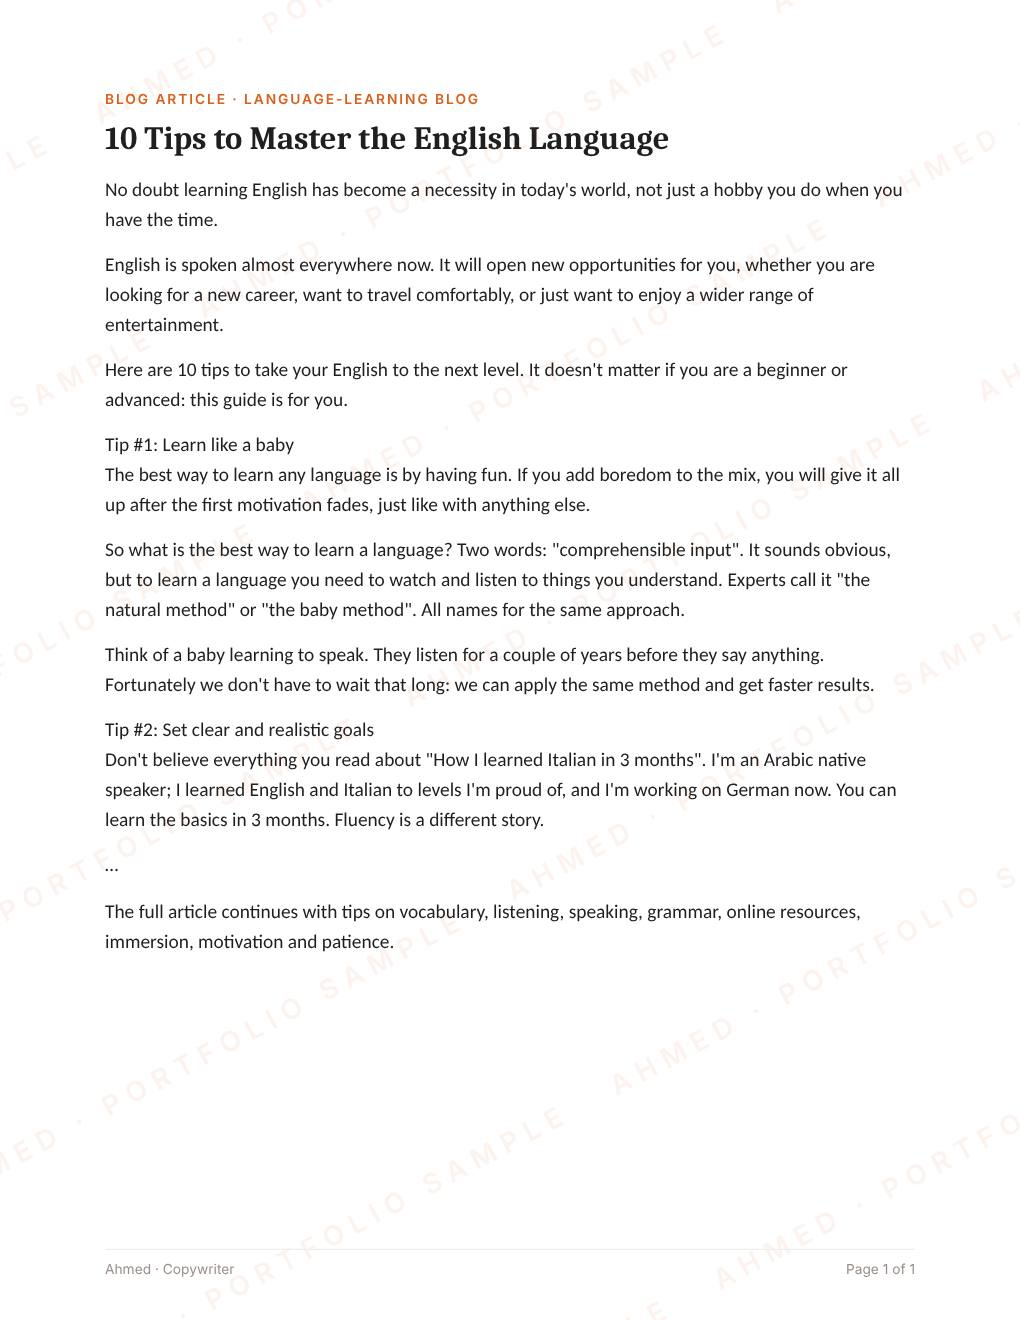
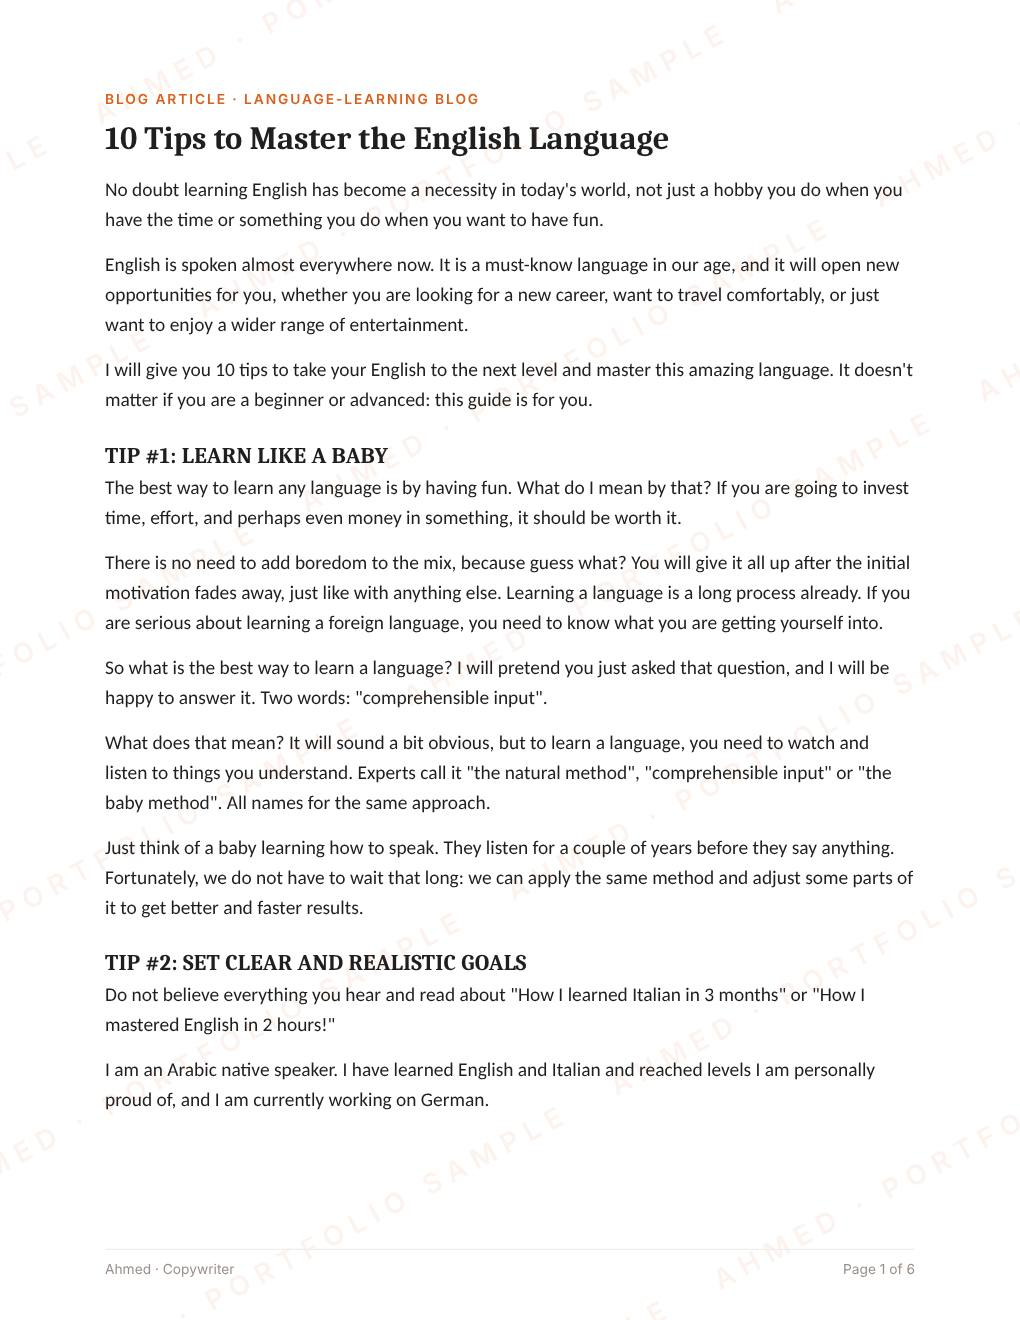
Full articles, All work tab, smaller tabs
Claude-Session: https://claude.ai/code/session_011yUh9b3yd9T1gQfVEYfghd

diff --git a/index.html b/index.html
@@ -85,8 +85,10 @@ section{padding-block:80px 8px}
 .story .btn{justify-self:start;margin-top:6px}
 
 /* language tabs */
-.langtabs{display:grid;grid-template-columns:1fr 1fr;gap:12px;max-width:640px;margin-bottom:44px}
-.langtab{font:600 17px var(--ui);padding:16px 14px;border-radius:16px;border:2px solid;cursor:pointer;display:flex;gap:10px;align-items:center;justify-content:center;transition:background .15s,color .15s}
+.langtabs{display:flex;flex-wrap:wrap;gap:8px;margin-bottom:40px}
+.langtab{font:600 14.5px var(--ui);padding:9px 16px;border-radius:999px;border:1.5px solid;cursor:pointer;display:flex;gap:10px;align-items:center;justify-content:center;transition:background .15s,color .15s}
+.langtab.ALL{border-color:var(--line);background:var(--surface);color:var(--ink)}
+.langtab.ALL[aria-selected="true"]{background:var(--ink);border-color:var(--ink);color:#fff}
 .langtab.EN{border-color:#C9D6EC;background:#EEF3FB;color:var(--en)}
 .langtab.IT{border-color:#C6E2D1;background:#EBF6EF;color:var(--it)}
 .langtab.EN[aria-selected="true"]{background:var(--en);border-color:var(--en);color:#fff}
@@ -94,7 +96,7 @@ section{padding-block:80px 8px}
 .langtab[aria-selected="true"] .lang{color:#fff}
 .subhead{font-size:clamp(22px,2.6vw,28px);font-weight:800;letter-spacing:-.01em;margin:0 0 28px}
 .subhead.more{margin-top:80px;margin-bottom:18px}
-@media (max-width:520px){.langtab{font-size:15px;padding:13px 8px;gap:6px}}
+@media (max-width:520px){.langtabs{gap:6px;flex-wrap:nowrap}.langtab{font-size:13px;padding:8px 11px;white-space:nowrap}.langtab .lang{display:none}}
 /* more work */
 .filters{display:flex;flex-wrap:wrap;gap:8px;margin-bottom:22px}
 .chip{font:500 14px var(--ui);padding:8px 16px;border-radius:999px;border:1px solid var(--line);background:var(--surface);color:var(--muted);cursor:pointer}
@@ -215,7 +217,7 @@ dialog::backdrop{background:rgba(30,20,14,.6)}
 </dialog>
 
 <script>
-const DATA = {"launch": [["work/launch-0-1.jpg", "work/launch-0-2.jpg"], ["work/launch-1-1.jpg"], ["work/launch-2-1.jpg"], ["work/launch-3-1.jpg"], ["work/launch-4-1.jpg"], ["work/launch-5-1.jpg"], ["work/launch-6-1.jpg"]], "ziina": ["work/w00-1.jpg", "work/w00-2.jpg"], "roma": ["work/w01-1.jpg", "work/w01-2.jpg"], "more": [{"title": "Andiamo a fare shopping insieme!", "type": "email", "lang": "IT", "kind": "Promo email", "client": "Fun and Easy Italian", "job": "Drives views to a new YouTube lesson with a small cliffhanger, then turns the lesson's method into a reason to buy the book.", "jobIt": "Porta visualizzazioni a una nuova lezione su YouTube con un piccolo cliffhanger, poi trasforma il metodo della lezione in un motivo per comprare il libro.", "pages": ["work/w02-1.jpg", "work/w02-2.jpg"]}, {"title": "Perché sei bloccato con l'italiano (e come sbloccarlo)", "type": "email", "lang": "IT", "kind": "Sales email", "client": "Italian course creator", "job": "Speaks to intermediate learners stuck on the plateau, names the feeling, then sells the course as the way out.", "jobIt": "Parla agli studenti intermedi fermi al plateau, dà un nome a quella sensazione e presenta il corso come via d'uscita.", "pages": ["work/w03-1.jpg"]}, {"title": "La verità sull'apprendimento dell'italiano (non è la grammatica)", "type": "email", "lang": "IT", "kind": "Sales email", "client": "Italian course creator", "job": "Challenges a belief the reader holds (grammar first) and replaces it with the course's approach.", "jobIt": "Mette in discussione una convinzione del lettore (prima la grammatica) e la sostituisce con l'approccio del corso.", "pages": ["work/w04-1.jpg"]}, {"title": "Ecco il tuo eBook, (Nome)", "type": "email", "lang": "IT", "kind": "Welcome email", "client": "Fun and Easy Italian", "job": "Delivers a free lead magnet and asks for one small action that protects deliverability: add the sender to contacts.", "jobIt": "Consegna un lead magnet gratuito e chiede una piccola azione che protegge la deliverability: aggiungere il mittente ai contatti.", "pages": ["work/w05-1.jpg"]}, {"title": "Are you making this mistake with Italian?", "type": "email", "lang": "EN", "kind": "Sequence opener", "client": "Italian course creator", "job": "The first email of a sequence: builds the dream of Italy, lets reality hit, and opens a loop for the emails that follow.", "jobIt": "La prima email di una sequenza: costruisce il sogno dell'Italia, fa arrivare la realtà e apre un loop per le email successive.", "pages": ["work/w06-1.jpg"]}, {"title": "Your SOLO guide to learning Italian", "type": "email", "lang": "EN", "kind": "Newsletter", "client": "Language-learning newsletter", "job": "Gives real value (five practical habits) and uses it to grow the newsletter list.", "jobIt": "Offre valore vero (cinque abitudini pratiche) e lo usa per far crescere la lista della newsletter.", "pages": ["work/w07-1.jpg", "work/w07-2.jpg"]}, {"title": "Watering plants made me a polyglot", "type": "email", "lang": "EN", "kind": "Newsletter · 2 drafts", "client": "Language-learning newsletter", "job": "A story about patience that sells a free newsletter. Shown here as the tightened second draft: cut from 300+ to about 150 words.", "jobIt": "Una storia sulla pazienza che vende una newsletter gratuita. Qui la seconda bozza, ridotta da oltre 300 a circa 150 parole.", "pages": ["work/w08-1.jpg"]}, {"title": "You have a GOLDMINE but you're wasting it", "type": "email", "lang": "EN", "kind": "Lead magnet email", "client": "Language-learning creator", "job": "Reframes languages as income, shares a personal failure story, and sends readers to a free 30-minute guide.", "jobIt": "Presenta le lingue come fonte di guadagno, racconta un fallimento personale e porta a una guida gratuita di 30 minuti.", "pages": ["work/w09-1.jpg"]}, {"title": "Benvenuto a WEILÀ TOM! Your Italian journey begins now", "type": "email", "lang": "EN", "kind": "Welcome email", "client": "WEILÀ TOM · Italian tutor", "job": "Welcomes new subscribers and walks them through every way to learn with the tutor, from free videos to 1:1 lessons.", "jobIt": "Accoglie i nuovi iscritti e mostra tutti i modi per imparare con l'insegnante, dai video gratuiti alle lezioni private.", "pages": ["work/w10-1.jpg"]}, {"title": "Getting WICKED is how to lose weight", "type": "email", "lang": "EN", "kind": "Lead magnet email", "client": "Keto cookbook offer", "job": "Outside my main niche: handles every objection (boring, budget, doing it alone, price) before giving away a free cookbook.", "jobIt": "Fuori dalla mia nicchia: risponde a ogni obiezione (noia, budget, fare tutto da soli, prezzo) prima di regalare un ricettario.", "pages": ["work/w11-1.jpg", "work/w11-2.jpg"]}, {"title": "Why you will NEVER make a PENNY online", "type": "email", "lang": "EN", "kind": "Sales email", "client": "Tom Stoic · Online business", "job": "A tough-love email for a skeptical audience: blames the reader, not the business model, then offers a free course.", "jobIt": "Un'email dura per un pubblico scettico: dà la colpa al lettore, non al modello di business, poi offre un corso gratuito.", "pages": ["work/w12-1.jpg", "work/w12-2.jpg"]}, {"title": "10 Tips to Master the English Language", "type": "content", "lang": "EN", "kind": "Blog article", "client": "Language-learning blog", "job": "A long-form SEO guide for learners, written from my own experience learning English and Italian.", "jobIt": "Una guida SEO lunga per chi studia l'inglese, scritta dalla mia esperienza con l'inglese e l'italiano.", "pages": ["work/w13-1.jpg"]}, {"title": "Why Is Your Brain Showing You a Smiling Coffee?", "type": "content", "lang": "EN", "kind": "Blog article", "client": "Popular science blog", "job": "Explains pareidolia through an everyday moment, so a science topic reads like a story.", "jobIt": "Spiega la pareidolia partendo da un momento quotidiano, così un tema scientifico si legge come una storia.", "pages": ["work/w14-1.jpg"]}, {"title": "Neuroplasticity: How Do We Learn New Things?", "type": "content", "lang": "EN", "kind": "Blog article", "client": "Popular science blog", "job": "Breaks down how the brain rewires itself, in plain language, and ties it back to learning a language.", "jobIt": "Spiega con parole semplici come il cervello si riorganizza e lo collega all'apprendimento delle lingue.", "pages": ["work/w15-1.jpg"]}, {"title": "Memories Are Made by \"Damaging\" Our DNA", "type": "content", "lang": "EN", "kind": "Blog article", "client": "Popular science blog", "job": "Turns a 2024 Nature study into a clear, readable story for a general audience.", "jobIt": "Trasforma uno studio pubblicato su Nature in una storia chiara per un pubblico generale.", "pages": ["work/w16-1.jpg"]}], "also": ["What Is Sleeping and How Does It Happen?", "The Science Behind Fasting", "What Are \"Hope Molecules\" That Your Body Produces?", "Misfolded Proteins May Make Dementia \"Contagious\"", "Déjà Vu: Why Do We Remember What We Did Not Do?", "Heterochromia Iridium: The Two-Colored Eyes", "Can Men and Women Be \"Just Friends\"?", "Ripe Fruit Odor May Inhibit Cancer Cell Growth", "Depressed Women Are More Likely to Develop Heart Disease"]};
+const DATA = {"launch": [["work/launch-0-1.jpg", "work/launch-0-2.jpg"], ["work/launch-1-1.jpg"], ["work/launch-2-1.jpg"], ["work/launch-3-1.jpg"], ["work/launch-4-1.jpg"], ["work/launch-5-1.jpg"], ["work/launch-6-1.jpg"]], "ziina": ["work/w00-1.jpg", "work/w00-2.jpg"], "roma": ["work/w01-1.jpg", "work/w01-2.jpg"], "more": [{"title": "Andiamo a fare shopping insieme!", "type": "email", "lang": "IT", "kind": "Promo email", "client": "Fun and Easy Italian", "job": "Drives views to a new YouTube lesson with a small cliffhanger, then turns the lesson's method into a reason to buy the book.", "jobIt": "Porta visualizzazioni a una nuova lezione su YouTube con un piccolo cliffhanger, poi trasforma il metodo della lezione in un motivo per comprare il libro.", "pages": ["work/w02-1.jpg", "work/w02-2.jpg"]}, {"title": "Perché sei bloccato con l'italiano (e come sbloccarlo)", "type": "email", "lang": "IT", "kind": "Sales email", "client": "Italian course creator", "job": "Speaks to intermediate learners stuck on the plateau, names the feeling, then sells the course as the way out.", "jobIt": "Parla agli studenti intermedi fermi al plateau, dà un nome a quella sensazione e presenta il corso come via d'uscita.", "pages": ["work/w03-1.jpg"]}, {"title": "La verità sull'apprendimento dell'italiano (non è la grammatica)", "type": "email", "lang": "IT", "kind": "Sales email", "client": "Italian course creator", "job": "Challenges a belief the reader holds (grammar first) and replaces it with the course's approach.", "jobIt": "Mette in discussione una convinzione del lettore (prima la grammatica) e la sostituisce con l'approccio del corso.", "pages": ["work/w04-1.jpg"]}, {"title": "Ecco il tuo eBook, (Nome)", "type": "email", "lang": "IT", "kind": "Welcome email", "client": "Fun and Easy Italian", "job": "Delivers a free lead magnet and asks for one small action that protects deliverability: add the sender to contacts.", "jobIt": "Consegna un lead magnet gratuito e chiede una piccola azione che protegge la deliverability: aggiungere il mittente ai contatti.", "pages": ["work/w05-1.jpg"]}, {"title": "Are you making this mistake with Italian?", "type": "email", "lang": "EN", "kind": "Sequence opener", "client": "Italian course creator", "job": "The first email of a sequence: builds the dream of Italy, lets reality hit, and opens a loop for the emails that follow.", "jobIt": "La prima email di una sequenza: costruisce il sogno dell'Italia, fa arrivare la realtà e apre un loop per le email successive.", "pages": ["work/w06-1.jpg"]}, {"title": "Your SOLO guide to learning Italian", "type": "email", "lang": "EN", "kind": "Newsletter", "client": "Language-learning newsletter", "job": "Gives real value (five practical habits) and uses it to grow the newsletter list.", "jobIt": "Offre valore vero (cinque abitudini pratiche) e lo usa per far crescere la lista della newsletter.", "pages": ["work/w07-1.jpg", "work/w07-2.jpg"]}, {"title": "Watering plants made me a polyglot", "type": "email", "lang": "EN", "kind": "Newsletter · 2 drafts", "client": "Language-learning newsletter", "job": "A story about patience that sells a free newsletter. Shown here as the tightened second draft: cut from 300+ to about 150 words.", "jobIt": "Una storia sulla pazienza che vende una newsletter gratuita. Qui la seconda bozza, ridotta da oltre 300 a circa 150 parole.", "pages": ["work/w08-1.jpg"]}, {"title": "You have a GOLDMINE but you're wasting it", "type": "email", "lang": "EN", "kind": "Lead magnet email", "client": "Language-learning creator", "job": "Reframes languages as income, shares a personal failure story, and sends readers to a free 30-minute guide.", "jobIt": "Presenta le lingue come fonte di guadagno, racconta un fallimento personale e porta a una guida gratuita di 30 minuti.", "pages": ["work/w09-1.jpg"]}, {"title": "Benvenuto a WEILÀ TOM! Your Italian journey begins now", "type": "email", "lang": "EN", "kind": "Welcome email", "client": "WEILÀ TOM · Italian tutor", "job": "Welcomes new subscribers and walks them through every way to learn with the tutor, from free videos to 1:1 lessons.", "jobIt": "Accoglie i nuovi iscritti e mostra tutti i modi per imparare con l'insegnante, dai video gratuiti alle lezioni private.", "pages": ["work/w10-1.jpg"]}, {"title": "Getting WICKED is how to lose weight", "type": "email", "lang": "EN", "kind": "Lead magnet email", "client": "Keto cookbook offer", "job": "Outside my main niche: handles every objection (boring, budget, doing it alone, price) before giving away a free cookbook.", "jobIt": "Fuori dalla mia nicchia: risponde a ogni obiezione (noia, budget, fare tutto da soli, prezzo) prima di regalare un ricettario.", "pages": ["work/w11-1.jpg", "work/w11-2.jpg"]}, {"title": "Why you will NEVER make a PENNY online", "type": "email", "lang": "EN", "kind": "Sales email", "client": "Tom Stoic · Online business", "job": "A tough-love email for a skeptical audience: blames the reader, not the business model, then offers a free course.", "jobIt": "Un'email dura per un pubblico scettico: dà la colpa al lettore, non al modello di business, poi offre un corso gratuito.", "pages": ["work/w12-1.jpg", "work/w12-2.jpg"]}, {"title": "10 Tips to Master the English Language", "type": "content", "lang": "EN", "kind": "Blog article", "client": "Language-learning blog", "job": "A long-form SEO guide for learners, written from my own experience learning English and Italian.", "jobIt": "Una guida SEO lunga per chi studia l'inglese, scritta dalla mia esperienza con l'inglese e l'italiano.", "pages": ["work/w13-1.jpg", "work/w13-2.jpg", "work/w13-3.jpg", "work/w13-4.jpg", "work/w13-5.jpg", "work/w13-6.jpg"]}, {"title": "Why Is Your Brain Showing You a Smiling Coffee?", "type": "content", "lang": "EN", "kind": "Blog article", "client": "Popular science blog", "job": "Explains pareidolia through an everyday moment, so a science topic reads like a story.", "jobIt": "Spiega la pareidolia partendo da un momento quotidiano, così un tema scientifico si legge come una storia.", "pages": ["work/w14-1.jpg", "work/w14-2.jpg"]}, {"title": "Neuroplasticity: How Do We Learn New Things?", "type": "content", "lang": "EN", "kind": "Blog article", "client": "Popular science blog", "job": "Breaks down how the brain rewires itself, in plain language, and ties it back to learning a language.", "jobIt": "Spiega con parole semplici come il cervello si riorganizza e lo collega all'apprendimento delle lingue.", "pages": ["work/w15-1.jpg", "work/w15-2.jpg"]}, {"title": "Memories Are Made by \"Damaging\" Our DNA", "type": "content", "lang": "EN", "kind": "Blog article", "client": "Popular science blog", "job": "Turns a 2024 Nature study into a clear, readable story for a general audience.", "jobIt": "Trasforma uno studio pubblicato su Nature in una storia chiara per un pubblico generale.", "pages": ["work/w16-1.jpg", "work/w16-2.jpg"]}], "also": ["What Is Sleeping and How Does It Happen?", "The Science Behind Fasting", "What Are \"Hope Molecules\" That Your Body Produces?", "Misfolded Proteins May Make Dementia \"Contagious\"", "Déjà Vu: Why Do We Remember What We Did Not Do?", "Heterochromia Iridium: The Two-Colored Eyes", "Can Men and Women Be \"Just Friends\"?", "Ripe Fruit Odor May Inhibit Cancer Cell Growth", "Depressed Women Are More Likely to Develop Heart Disease"]};
 
 /* ============ CASE STUDIES ============ */
 const CASES = [
@@ -247,7 +249,7 @@ const CASES = [
 
 /* ============ INTERFACE TEXT ============ */
 const T = {
-en:{navWork:"Work",wEyebrow:"My work",wH2:"Choose a language to see the work",tabEN:"English work",tabIT:"Italian work",navA:"About",navC:"Contact",
+en:{navWork:"Work",wEyebrow:"My work",wH2:"Case studies and samples",tabALL:"All work",tabEN:"English work",tabIT:"Italian work",navA:"About",navC:"Contact",
  eyebrow:"Bilingual Copywriter: English & Italian",
  h1:"I write the words between “just looking” and “add to cart.”",
  lede:"I write emails, sales pages, landing pages, website content and product descriptions that turn readers into buyers, in English and Italian.",
@@ -264,7 +266,7 @@ en:{navWork:"Work",wEyebrow:"My work",wH2:"Choose a language to see the work",ta
  svc:[["Email sequences","Welcome, launch, nurture and post-purchase"],["Sales & landing pages","Launches, waitlists, product and SaaS pages"],["Website content","Home, about and service pages that explain and convert"],["Product descriptions","E-commerce product pages and FAQs"],["Newsletters","Story-led emails that keep a list warm"]],
  kEyebrow:"Contact",kH2:"Got something to sell? Let's write it.",copy:"Copy email",copied:"Copied",selected:"Selected, press Ctrl+C",
  footer:"© 2026 Ahmed Almakaidy · Bilingual copywriter, English and Italian",close:"Close"},
-it:{navWork:"Lavori",wEyebrow:"I miei lavori",wH2:"Scegli una lingua per vedere i lavori",tabEN:"Lavori in inglese",tabIT:"Lavori in italiano",navA:"Chi sono",navC:"Contatti",
+it:{navWork:"Lavori",wEyebrow:"I miei lavori",wH2:"Casi studio e testi",tabALL:"Tutti i lavori",tabEN:"Lavori in inglese",tabIT:"Lavori in italiano",navA:"Chi sono",navC:"Contatti",
  eyebrow:"Copywriter bilingue: inglese e italiano",
  h1:"Scrivo le parole tra “sto solo guardando” e “aggiungi al carrello”.",
  lede:"Scrivo email, pagine di vendita, landing page, contenuti per siti web e descrizioni prodotto che trasformano i lettori in clienti, in inglese e in italiano.",
@@ -290,7 +292,7 @@ const $ = s => document.querySelector(s);
 const el = (tag, cls, txt) => { const n = document.createElement(tag); if (cls) n.className = cls; if (txt != null) n.textContent = txt; return n; };
 const langTag = l => el("span","lang "+l,l);
 const docImg = (src, alt) => { const i = el("img","doc"); i.src = src; i.alt = alt; i.loading = "lazy"; i.draggable = false; return i; };
-let L = "en", fType = "all", W = "EN";
+let L = "en", fType = "all", W = "ALL";
 try { const s = localStorage.getItem("lang"); if (s==="it"||s==="en") L = s; } catch(e){}
 if (location.hash==="#it") L = "it";
 const t = k => T[L][k];
@@ -299,7 +301,7 @@ document.addEventListener("contextmenu", e => { if (e.target.tagName==="IMG") e.
 /* ============ case studies ============ */
 function renderCases(){
   const box = $("#caseList"); box.innerHTML = "";
-  CASES.filter(c=>c.langs.includes(W)).forEach((c,ci)=>{
+  CASES.filter(c=>W==="ALL"||c.langs.includes(W)).forEach((c,ci)=>{
     const art = el("article","case");
     const stack = el("button","stack"); stack.type = "button"; stack.setAttribute("aria-label", t("open")+": "+c.title);
     const pgs = el("div","pgs"); c.cover.forEach(src=>pgs.append(docImg(src,""))); stack.append(pgs, el("span","open",t("open")+" →"));
@@ -318,7 +320,7 @@ function renderCases(){
 /* ============ more work ============ */
 function renderFilters(){
   const f = $("#filters"); f.innerHTML = "";
-  const have = new Set(DATA.more.filter(w=>w.lang===W).map(w=>w.type));
+  const have = new Set(DATA.more.filter(w=>W==="ALL"||w.lang===W).map(w=>w.type));
   if (fType!=="all" && !have.has(fType)) fType = "all";
   Object.entries(t("types")).filter(([v])=>v==="all"||have.has(v)).forEach(([v,label])=>{
     const c = el("button","chip",label); c.type = "button"; c.setAttribute("aria-pressed", v===fType);
@@ -327,7 +329,9 @@ function renderFilters(){
 }
 function renderGallery(){
   const g = $("#gallery"); g.innerHTML = "";
-  const items = DATA.more.map((w,i)=>[w,i]).filter(([w])=>w.lang===W && (fType==="all"||w.type===fType));
+  const first = L==="it" ? "IT" : "EN";
+  const items = DATA.more.map((w,i)=>[w,i]).filter(([w])=>(W==="ALL"||w.lang===W) && (fType==="all"||w.type===fType))
+    .sort((a,b)=>(a[0].lang===first?0:1)-(b[0].lang===first?0:1) || a[1]-b[1]);
   items.forEach(([w])=>{
     const kind = L==="it" ? (KIND_IT[w.kind]||w.kind) : w.kind;
     const client = L==="it" ? (CLIENT_IT[w.client]||w.client) : w.client;
@@ -339,16 +343,17 @@ function renderGallery(){
     li.append(b); g.append(li);
   });
   const a = $("#also"); a.innerHTML = "";
-  a.hidden = !(W==="EN" && (fType==="all"||fType==="content"));
+  a.hidden = !(W!=="IT" && (fType==="all"||fType==="content"));
   a.append(el("b",null,t("also")), DATA.also.join("  ·  "));
 }
 
 /* ============ language tabs ============ */
 function renderTabs(){
   const box = $("#langTabs"); box.innerHTML = "";
-  ["EN","IT"].forEach(lg=>{
+  ["ALL","EN","IT"].forEach(lg=>{
     const b = el("button","langtab "+lg); b.type = "button"; b.setAttribute("role","tab"); b.setAttribute("aria-selected", lg===W);
-    b.append(langTag(lg), el("span",null,t(lg==="EN"?"tabEN":"tabIT")));
+    if (lg!=="ALL") b.append(langTag(lg));
+    b.append(el("span",null,t("tab"+lg)));
     b.addEventListener("click",()=>{ W = lg; renderTabs(); renderCases(); renderFilters(); renderGallery(); });
     box.append(b);
   });
@@ -381,7 +386,6 @@ function applyLang(){
   $("#copyBtn").textContent = t("copy"); $("#closeBtn").textContent = t("close")+" ✕";
   const svc = $("#svc"); svc.innerHTML = "";
   t("svc").forEach(([a,b])=>{ const li = el("li"); li.append(el("b",null,a), el("span",null,b)); svc.append(li); });
-  W = L==="it" ? "IT" : "EN";
   renderTabs(); renderCases(); renderFilters(); renderGallery();
 }
 document.querySelectorAll(".switch button").forEach(b=>b.addEventListener("click",()=>{ L = b.dataset.lang; try{localStorage.setItem("lang",L);}catch(e){} applyLang(); }));
